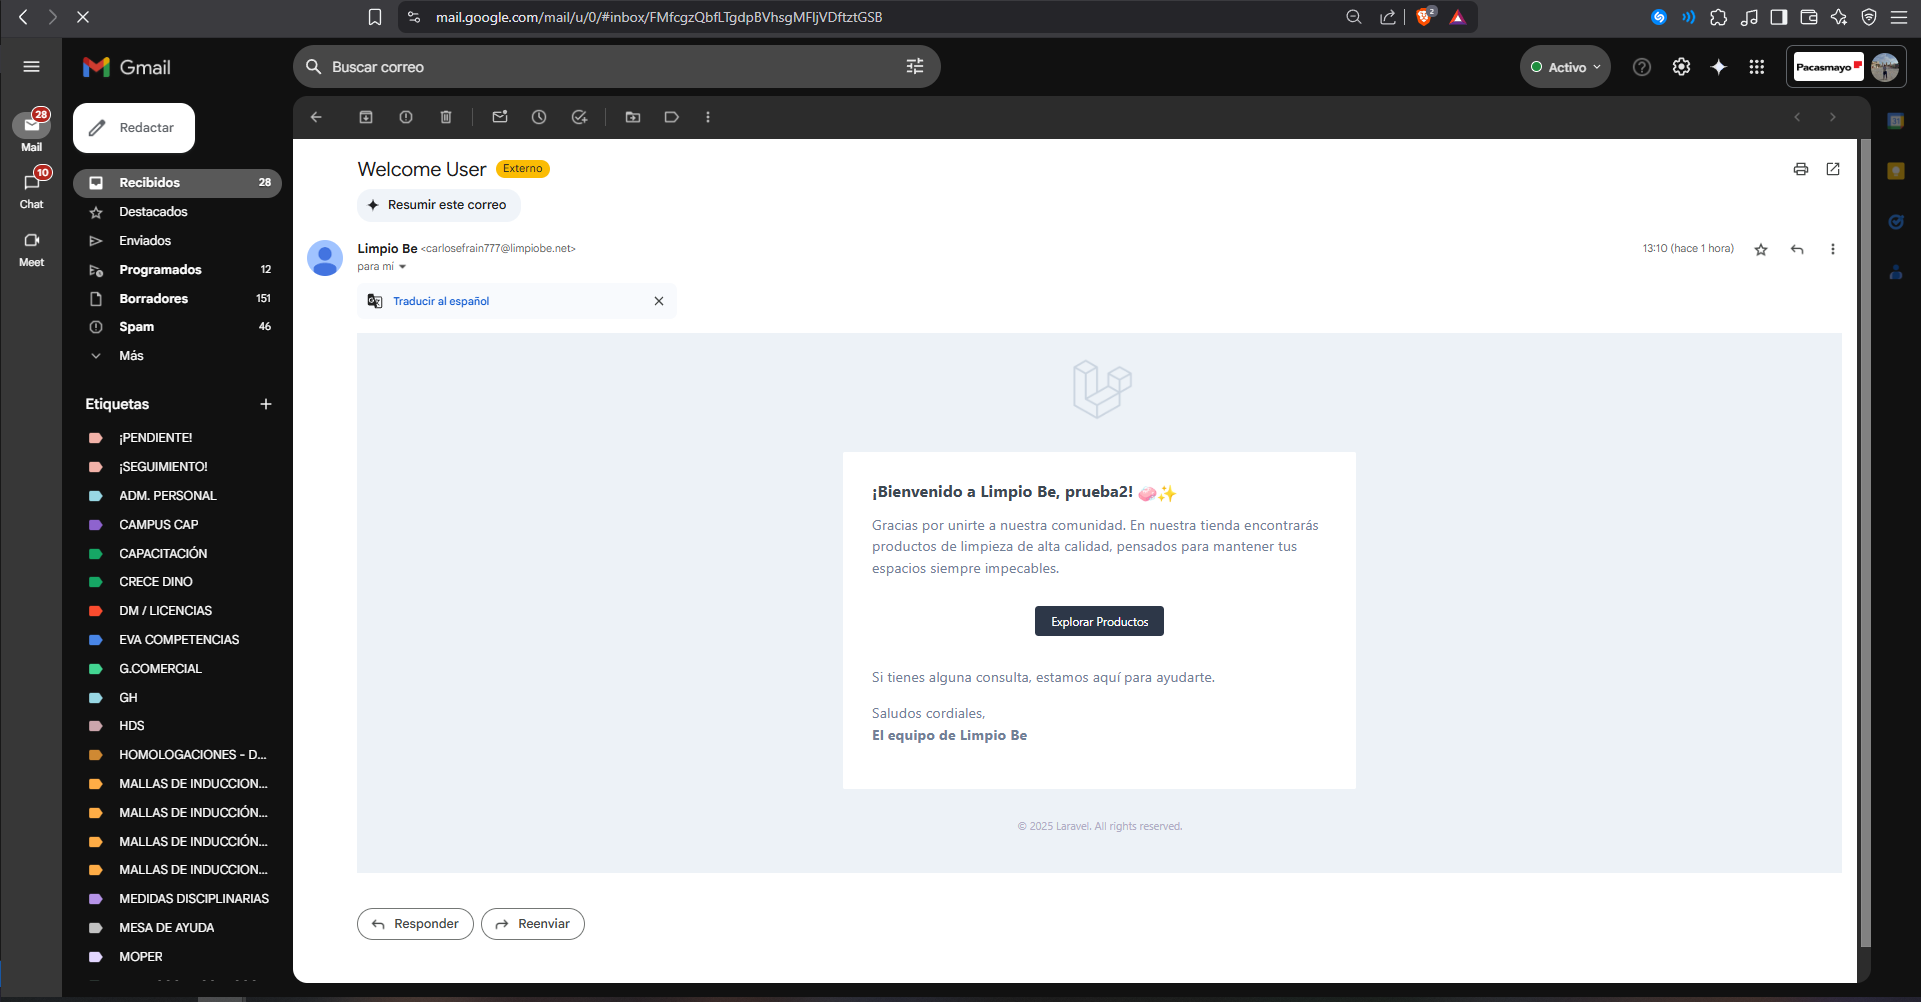
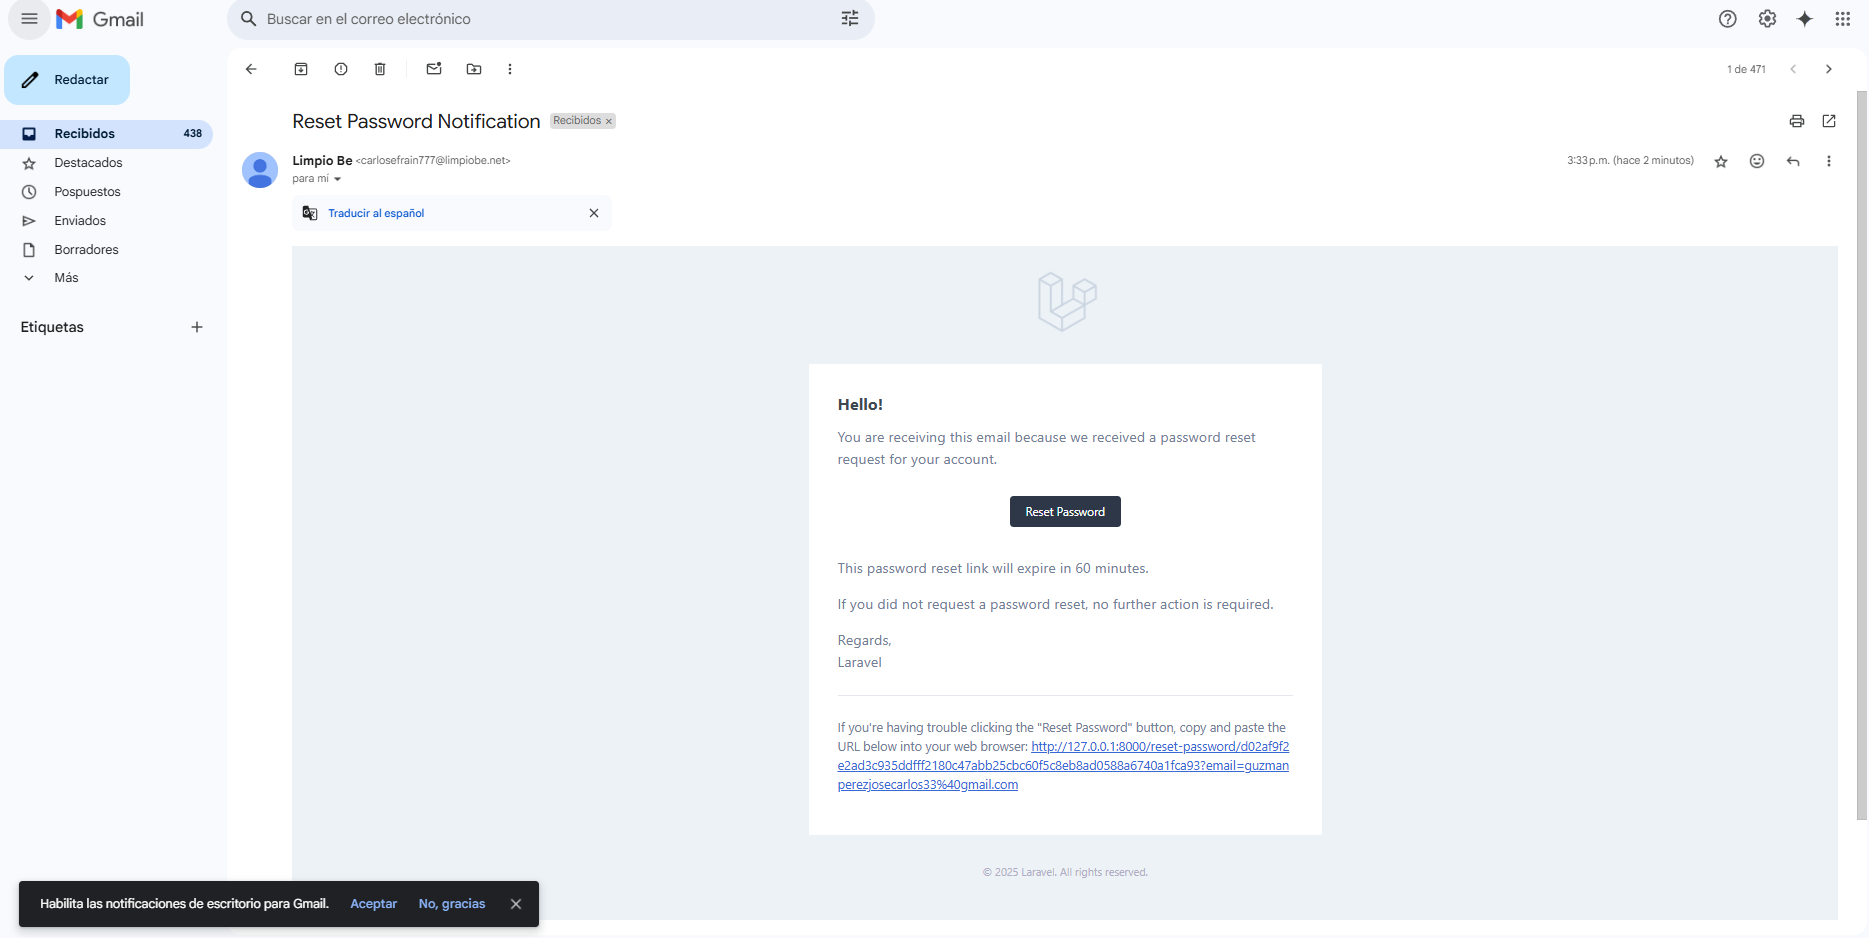
Se agrega las funcionalidades de olvidaste tu contraseña y te envia a Gmail

diff --git a/resources/views/auth/forgot-password.blade.php b/resources/views/auth/forgot-password.blade.php
@@ -1,15 +1,14 @@
 @extends('layouts.app')
 
-@section('title', 'Olvidaste la contraseña')
+@section('title', 'Iniciar Session')
 
 @section('content')
-    <!-- Breadcrumb Section Start -->
     <section class="breadcrumb-section pt-0">
         <div class="container-fluid-lg">
             <div class="row">
                 <div class="col-12">
                     <div class="breadcrumb-contain">
-                        <h2>Forgot Password</h2>
+                        <h2 class="mb-2">Olvidaste tu contraseña</h2>
                         <nav>
                             <ol class="breadcrumb mb-0">
                                 <li class="breadcrumb-item">
@@ -17,7 +16,7 @@
                                         <i class="fa-solid fa-house"></i>
                                     </a>
                                 </li>
-                                <li class="breadcrumb-item active">Olvidate la Contraseña</li>
+                                <li class="breadcrumb-item active">Olvidaste tu contraseña</li>
                             </ol>
                         </nav>
                     </div>
@@ -25,47 +24,73 @@
             </div>
         </div>
     </section>
-    <!-- Breadcrumb Section End -->
 
-    <!-- log in section start -->
     <section class="log-in-section section-b-space forgot-section">
         <div class="container-fluid-lg w-100">
+
             <div class="row">
+                <!-- Imagen decorativa -->
                 <div class="col-xxl-6 col-xl-5 col-lg-6 d-lg-block d-none ms-auto">
                     <div class="image-contain">
-                        <img src="../assets/images/inner-page/forgot.png" class="img-fluid" alt="">
+                        <img src="{{ asset('assets/images/inner-page/forgot.png') }}" class="img-fluid"
+                            alt="Recuperar contraseña en Andercode eCommerce">
                     </div>
                 </div>
 
+                <!-- Formulario de recuperación de contraseña -->
                 <div class="col-xxl-4 col-xl-5 col-lg-6 col-sm-8 mx-auto">
                     <div class="d-flex align-items-center justify-content-center h-100">
                         <div class="log-in-box">
                             <div class="log-in-title">
-                                <h3>Welcome To Fastkart</h3>
-                                <h4>Forgot your password</h4>
+                                <h3>Recupera tu acceso a Andercode eCommerce</h3>
+                                <h4>Ingresa tu correo para restablecer tu contraseña</h4>
                             </div>
 
+                            @if (session('status'))
+                                <div class="alert alert-success text-center">
+                                    {{ session('status') }}
+                                </div>
+                            @endif
+
                             <div class="input-box">
-                                <form class="row g-4">
+                                <form class="row g-4" method="POST" action="{{ route('password.email') }}">
+                                    @csrf
+
+                                    <!-- Campo Email -->
                                     <div class="col-12">
                                         <div class="form-floating theme-form-floating log-in-form">
-                                            <input type="email" class="form-control" id="email"
-                                                placeholder="Email Address">
-                                            <label for="email">Email Address</label>
+                                            <input type="email" class="form-control @error('email') is-invalid @enderror"
+                                                id="email" name="email" placeholder="Correo Electrónico"
+                                                value="{{ old('email') }}" required autofocus>
+                                            <label for="email">Correo Electrónico</label>
+                                            @error('email')
+                                                <span class="invalid-feedback d-block" role="alert">
+                                                    <strong>{{ $message }}</strong>
+                                                </span>
+                                            @enderror
                                         </div>
                                     </div>
 
+                                    <!-- Botón Enviar -->
                                     <div class="col-12">
-                                        <button class="btn btn-animation w-100" type="submit">Forgot
-                                            Password</button>
+                                        <button class="btn btn-animation w-100" type="submit">
+                                            Enviar enlace de recuperación
+                                        </button>
                                     </div>
                                 </form>
+                            </div>
+
+                            <!-- Enlace para volver a inicio de sesión -->
+                            <div class="sign-up-box mt-3 text-center">
+                                <h4>¿Recordaste tu contraseña?</h4>
+                                <a href="{{ route('login') }}">Iniciar Sesión</a>
                             </div>
                         </div>
                     </div>
                 </div>
             </div>
+
         </div>
     </section>
-    <!-- log in section end -->
+
 @endsection
